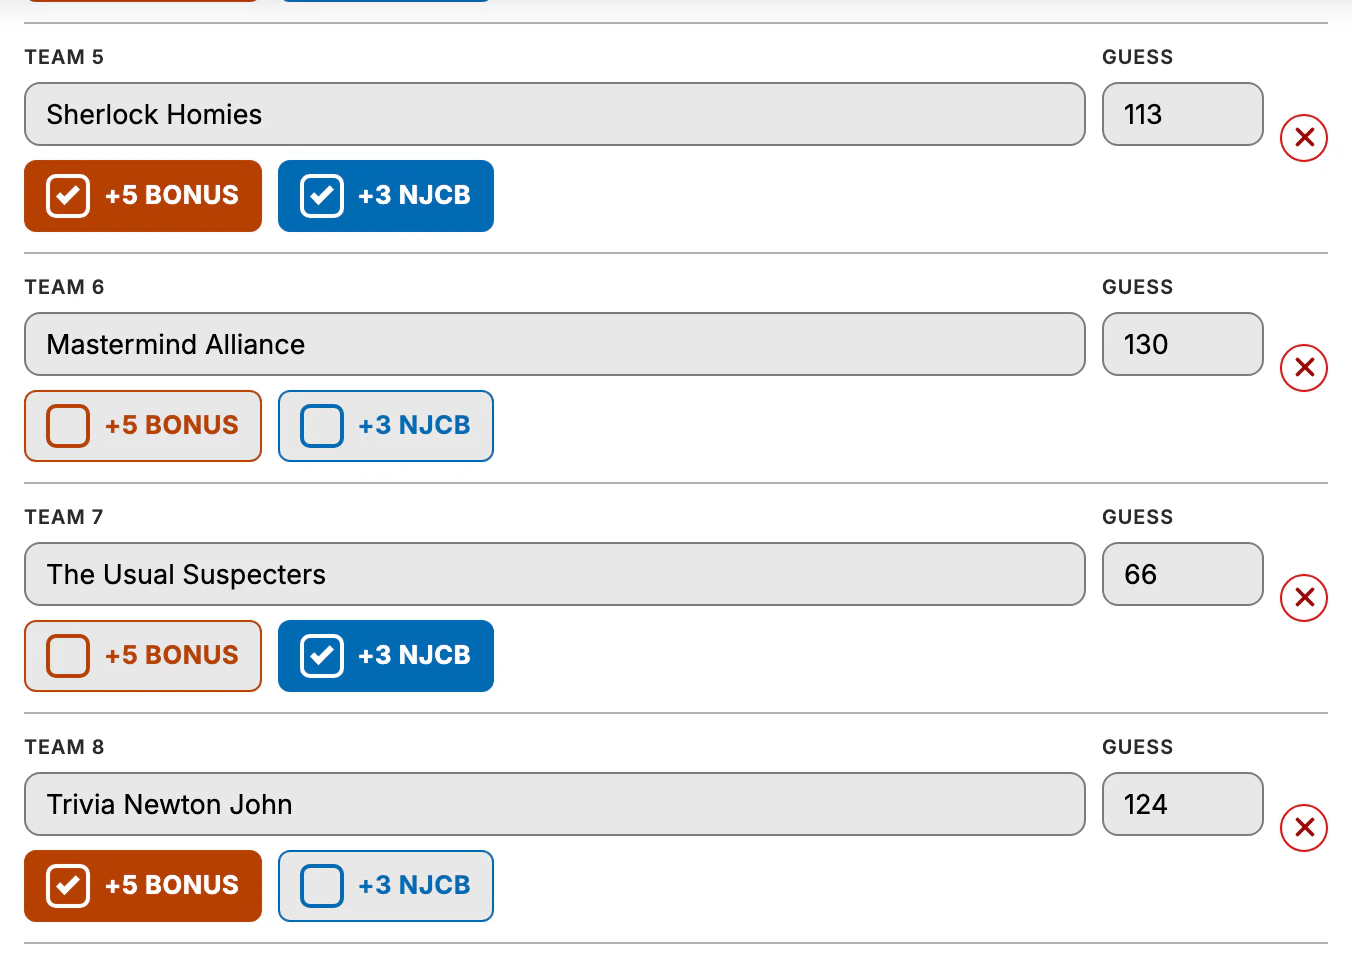
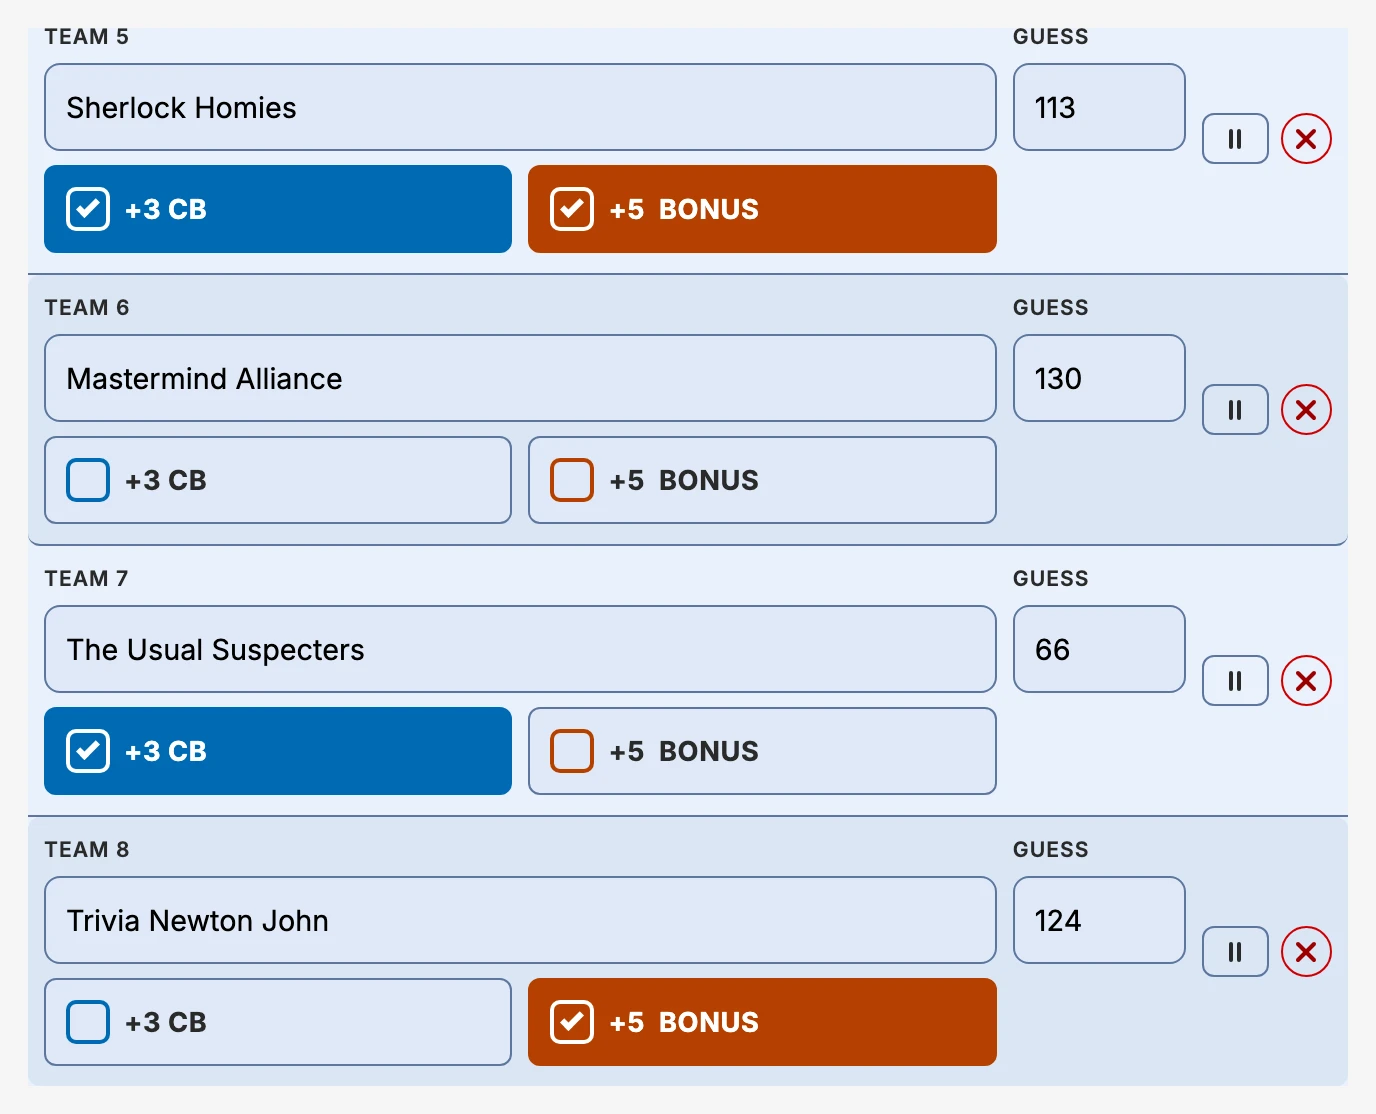
v21.19 follow-up: FAQ v1.52 with regenerated Teams screenshot showing the rounded pause button

diff --git a/faq/index.html b/faq/index.html
@@ -574,10 +574,10 @@
         <div class="faq-shot">
           <img
             loading="lazy"
-            width="1352" height="968" decoding="async"
+            width="1376" height="1114" decoding="async"
             src="screenshots/teams-list.webp"
             data-shot-base="teams-list"
-            alt="Teams section showing team rows with name fields, +5 Bonus and +3 NJCB checkboxes, Score Guess field, and the remove button"
+            alt="Teams section showing team rows with name fields, +3 CB and +5 Bonus checkboxes, Score Guess field, and the pause and remove buttons"
             onerror="faqShotFallback(this,'Teams section — a few rows, showing the Bonus/NJCB checkboxes and Score Guess field')"
           />
         </div>

diff --git a/faq/js/faq.js b/faq/js/faq.js
@@ -4,8 +4,8 @@
 // #versionLabel element. Here the same string feeds two spots — the page footer and the
 // Settings panel's settings-meta row — so bumping a release only means editing these two
 // constants instead of hunting down every place the version text is written out by hand.
-const FAQ_VERSION = "v1.51";
-const FAQ_VERSION_DATE = "1 Nov 2026";
+const FAQ_VERSION = "v1.52";
+const FAQ_VERSION_DATE = "2 Nov 2026";
 
 // Same Lucide sun/moon geometry as the main app's THEME_ICON_SUN/MOON (js/app.js), tagged
 // data-emoji so Icon Style (see faqApplyIconStyle further down) can swap this page's Theme

diff --git a/faq/screenshots/README.md b/faq/screenshots/README.md
@@ -34,7 +34,7 @@ comparison it exists to make.
 | File | What to capture | Used in |
 |---|---|---|
 | `event-details.webp` | The Event Details section, expanded, fully filled in (Date, Quiz ID, Host Name, Location, Craft Partner, Partner Town, Bonus Item, Restaurant Staff). | Event Details |
-| `teams-list.webp` | A few rows of the Teams section — name field, the +5 Bonus / +3 NJCB checkboxes, the Score Guess field, and the ✕ remove button. | Teams |
+| `teams-list.webp` | A few rows of the Teams section — name field, the +3 CB / +5 Bonus checkboxes, the Score Guess field, and the rounded-rectangle pause button next to the ✕ remove button. | Teams |
 | `round-scoring.webp` | One round expanded, with a mix of green (correct), red (incorrect), and idle wager buttons across a few teams/questions. | Scoring Rounds |
 | `beer-round.webp` | A bonus (Q5) question where every team is marked correct, showing the gold wash and the 🍺 Beer Round! badge. The standalone "Everyone got it right!" banner was removed in app v18.57 — the badge and the gold block are the whole treatment now. Round 3's Q5 in the sample game is one; otherwise mark a question correct for every team by hand. | Scoring Rounds |
 | `sort-buttons.webp` | Close-up of a single question's header showing the A-Z, Sort and Reset buttons on one row (the header pins as one piece). | Tips & Tricks |

diff --git a/faq/CHANGELOG.md b/faq/CHANGELOG.md
@@ -2,6 +2,12 @@
 
 All notable changes to the Scorekeeper FAQ site are documented here.
 
+## [1.52] - 2 Nov 2026
+
+### Changed
+
+- **Teams screenshot regenerated:** now shows the rounded-rectangle pause button next to the remove button and the current +3 CB / +5 Bonus labels, in dark and light.
+
 ## [1.51] - 1 Nov 2026
 
 ### Changed
